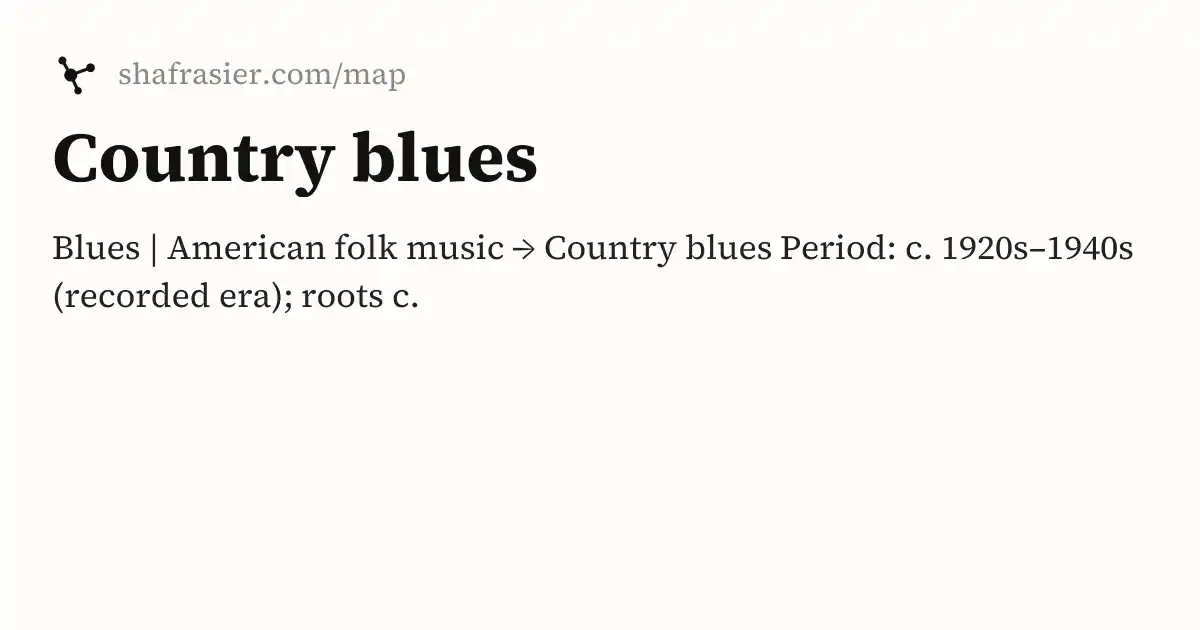
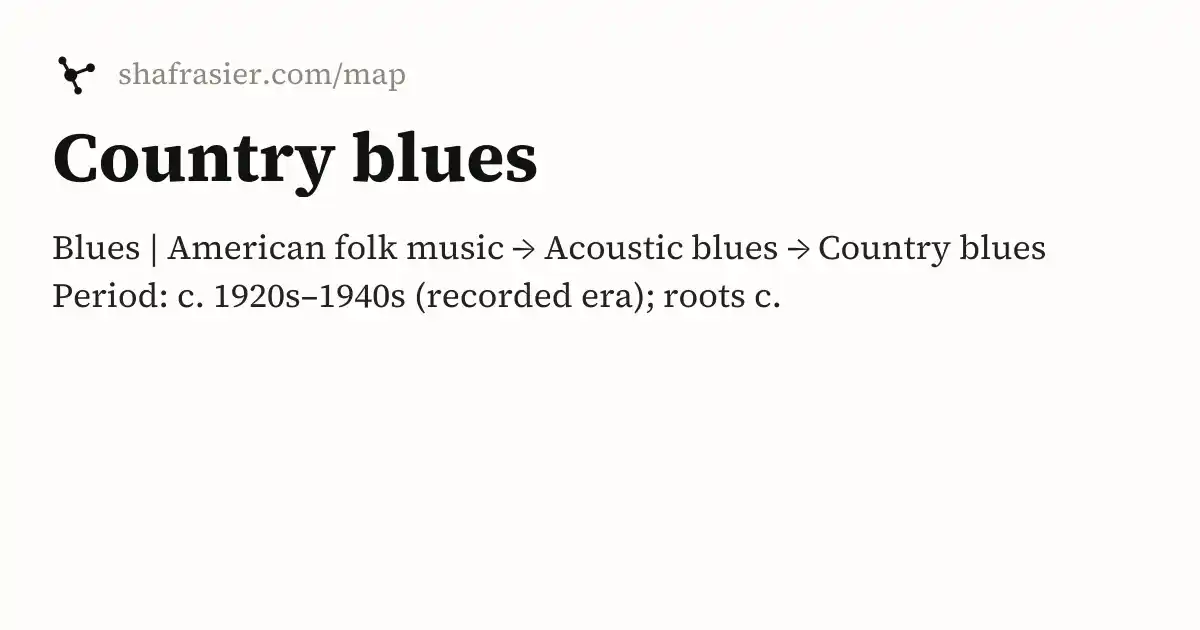
MAP: rebuild — Country blues cascade under Acoustic blues (per Sha's sketch)
The blues staff now reads Blues → Acoustic blues → Country blues → Delta blues
as one unfurling frond above the spine, matching the hand-drawn layout.

Changed region(s): [[0.0308, 0.4524, 0.6475, 0.5127], [0.4317, 0.3619, 0.9558, 0.4222]]

diff --git a/map/MUSIC/GENRES/BLUES/COUNTRY/Country-blues.html b/map/MUSIC/GENRES/BLUES/COUNTRY/Country-blues.html
@@ -1,5 +1,5 @@
 <!DOCTYPE html>
-<html lang="en" dir="ltr"><head><title>Country blues</title><meta charset="utf-8"/><style>:root{background-color:#f0efe4}:root[saved-theme=dark]{background-color:#100e0b}</style><link rel="preconnect" href="https://fonts.googleapis.com"/><link rel="preconnect" href="https://fonts.gstatic.com"/><link rel="stylesheet" href="https://fonts.googleapis.com/css2?family=Source Serif 4:wght@400;700&amp;family=Source Serif 4:ital,wght@0,400;0,600;1,400;1,600&amp;family=IBM Plex Mono:wght@400;600&amp;display=swap"/><link rel="preconnect" href="https://cdnjs.cloudflare.com" crossorigin="anonymous"/><meta name="viewport" content="width=device-width, initial-scale=1.0"/><meta name="og:site_name" content="MAP"/><meta property="og:title" content="Country blues"/><meta property="og:type" content="website"/><meta name="twitter:card" content="summary_large_image"/><meta name="twitter:title" content="Country blues"/><meta name="twitter:description" content="Blues | American folk music → Country blues Period: c. 1920s–1940s (recorded era); roots c."/><meta property="og:description" content="Blues | American folk music → Country blues Period: c. 1920s–1940s (recorded era); roots c."/><meta property="og:image:alt" content="Blues | American folk music → Country blues Period: c. 1920s–1940s (recorded era); roots c."/><meta property="twitter:domain" content="shafrasier.com/map"/><meta property="og:url" content="https://shafrasier.com/map/MUSIC/GENRES/BLUES/COUNTRY/Country-blues"/><meta property="twitter:url" content="https://shafrasier.com/map/MUSIC/GENRES/BLUES/COUNTRY/Country-blues"/><link rel="icon" href="../../../../static/icon.png"/><meta name="description" content="Blues | American folk music → Country blues Period: c. 1920s–1940s (recorded era); roots c."/><meta name="generator" content="Quartz"/><link href="../../../../index.css" rel="stylesheet" type="text/css" data-persist="true"/><style>.expand-button {
+<html lang="en" dir="ltr"><head><title>Country blues</title><meta charset="utf-8"/><style>:root{background-color:#f0efe4}:root[saved-theme=dark]{background-color:#100e0b}</style><link rel="preconnect" href="https://fonts.googleapis.com"/><link rel="preconnect" href="https://fonts.gstatic.com"/><link rel="stylesheet" href="https://fonts.googleapis.com/css2?family=Source Serif 4:wght@400;700&amp;family=Source Serif 4:ital,wght@0,400;0,600;1,400;1,600&amp;family=IBM Plex Mono:wght@400;600&amp;display=swap"/><link rel="preconnect" href="https://cdnjs.cloudflare.com" crossorigin="anonymous"/><meta name="viewport" content="width=device-width, initial-scale=1.0"/><meta name="og:site_name" content="MAP"/><meta property="og:title" content="Country blues"/><meta property="og:type" content="website"/><meta name="twitter:card" content="summary_large_image"/><meta name="twitter:title" content="Country blues"/><meta name="twitter:description" content="Blues | American folk music → Acoustic blues → Country blues Period: c. 1920s–1940s (recorded era); roots c."/><meta property="og:description" content="Blues | American folk music → Acoustic blues → Country blues Period: c. 1920s–1940s (recorded era); roots c."/><meta property="og:image:alt" content="Blues | American folk music → Acoustic blues → Country blues Period: c. 1920s–1940s (recorded era); roots c."/><meta property="twitter:domain" content="shafrasier.com/map"/><meta property="og:url" content="https://shafrasier.com/map/MUSIC/GENRES/BLUES/COUNTRY/Country-blues"/><meta property="twitter:url" content="https://shafrasier.com/map/MUSIC/GENRES/BLUES/COUNTRY/Country-blues"/><link rel="icon" href="../../../../static/icon.png"/><meta name="description" content="Blues | American folk music → Acoustic blues → Country blues Period: c. 1920s–1940s (recorded era); roots c."/><meta name="generator" content="Quartz"/><link href="../../../../index.css" rel="stylesheet" type="text/css" data-persist="true"/><style>.expand-button {
   position: absolute;
   display: flex;
   float: right;
@@ -114,7 +114,7 @@ pre:hover > .expand-button {
   width: auto;
   padding: 0 12px;
   font-size: 14px;
-}</style><script src="../../../../prescript.js" type="application/javascript" data-persist="true"></script><script type="application/javascript" data-persist="true">const fetchData = fetch("../../../../static/contentIndex.json").then(data => data.json())</script><link rel="alternate" type="application/rss+xml" title="RSS Feed" href="https://shafrasier.com/map/index.xml"/><meta property="og:image:width" content="1200"/><meta property="og:image:height" content="630"/><meta property="og:image" content="https://shafrasier.com/map/MUSIC/GENRES/BLUES/COUNTRY/Country-blues-og-image.webp"/><meta property="og:image:url" content="https://shafrasier.com/map/MUSIC/GENRES/BLUES/COUNTRY/Country-blues-og-image.webp"/><meta name="twitter:image" content="https://shafrasier.com/map/MUSIC/GENRES/BLUES/COUNTRY/Country-blues-og-image.webp"/><meta property="og:image:type" content="image/.webp"/></head><body data-slug="MUSIC/GENRES/BLUES/COUNTRY/Country-blues"><div id="quartz-root" class="page"><div id="quartz-body"><div class="left sidebar"><div class="flex-component" style="flex-direction: row; flex-wrap: nowrap; gap: 0.5rem;"><div style="flex-grow: 0; flex-shrink: 1; flex-basis: auto; order: 0; align-self: center; justify-self: center;"><button class="graph-logo global-graph-icon" aria-label="Open the connections graph" title="Connections"><svg viewBox="0 0 24 24" xmlns="http://www.w3.org/2000/svg" aria-hidden="true"><line x1="7.5" y1="13" x2="4" y2="6.5"></line><line x1="7.5" y1="13" x2="16.5" y2="9"></line><line x1="7.5" y1="13" x2="11" y2="20"></line><circle cx="7.5" cy="13" r="2.6"></circle><circle cx="4" cy="6.5" r="1.5"></circle><circle cx="16.5" cy="9" r="1.7"></circle><circle cx="11" cy="20" r="1.4"></circle></svg></button></div><div style="flex-grow: 1; flex-shrink: 1; flex-basis: auto; order: 0; align-self: center; justify-self: center;"><h2 class="page-title"><a href="../../../..">MAP</a></h2></div><div style="flex-grow: 0; flex-shrink: 1; flex-basis: auto; order: 0; align-self: center; justify-self: center;"><div class="settings"><button class="settings-gear" aria-label="Settings" aria-expanded="false" title="Settings"><svg viewBox="0 0 24 24" xmlns="http://www.w3.org/2000/svg" aria-hidden="true" fill="currentColor"><path d="M19.14 12.94c.04-.3.06-.61.06-.94 0-.32-.02-.64-.07-.94l2.03-1.58c.18-.14.23-.41.12-.61l-1.92-3.32c-.12-.22-.37-.29-.59-.22l-2.39.96c-.5-.38-1.03-.7-1.62-.94l-.36-2.54c-.04-.24-.24-.41-.48-.41h-3.84c-.24 0-.43.17-.47.41l-.36 2.54c-.[phone redacted].94l-2.39-.96c-.22-.08-.47 0-.59.22L2.74 8.87c-.12.21-.08.47.12.61l2.03 1.58c-.05.3-.09.63-.09.94s.02.64.07.94l-2.03 1.58c-.18.14-.23.41-.12.61l1.92 3.32c.[phone redacted].22l2.39-.96c.[phone redacted].94l.36 2.54c.[phone redacted].41h3.84c.24 0 .44-.17.47-.41l.36-2.54c.59-.24 1.13-.56 1.62-.94l2.39.96c.[phone redacted] .59-.22l1.92-3.32c.12-.22.07-.47-.12-.61l-2.01-1.58zM12 15.6c-[phone redacted].6s1.[phone redacted] [phone redacted].6z"></path></svg></button><div class="settings-menu" hidden><div class="settings-row"><span class="settings-label">Theme</span><button class="darkmode"><svg xmlns="http://www.w3.org/2000/svg" class="dayIcon" viewBox="0 0 24 24" fill="none" stroke="currentColor" stroke-width="2" stroke-linecap="round" stroke-linejoin="round" aria-label="Dark mode"><title>Dark mode</title><circle cx="12" cy="12" r="4"></circle><path d="M12 1v3m0 16v3M4.22 4.22l2.12 2.12m11.32 11.32l2.12 2.12M1 12h3m16 0h3M4.22 19.78l2.12-2.12m11.32-11.32l2.12-2.12"></path></svg><svg xmlns="http://www.w3.org/2000/svg" class="nightIcon" viewBox="0 0 24 24" fill="currentColor" stroke="currentColor" stroke-width="0" stroke-linecap="round" stroke-linejoin="round" aria-label="Light mode"><title>Light mode</title><path d="M21 12.79A9 [phone redacted] 21 12.79z"></path></svg></button></div><div class="settings-row"><span class="settings-label">Song links<button class="settings-info" aria-label="What does this change?" aria-expanded="false">?</button></span><div class="stream-toggle " role="group" aria-label="Where song links open"><button class="stream-opt" data-stream="apple" title="Apple Music" aria-pressed="false"><svg viewBox="0 0 40 40" xmlns="http://www.w3.org/2000/svg" aria-hidden="true"><defs><linearGradient id="am-g" x1="0" y1="0" x2="0" y2="1"><stop offset="0" stop-color="#fb5c74"></stop><stop offset="1" stop-color="#fa233b"></stop></linearGradient></defs><rect x="1" y="1" width="38" height="38" rx="9" fill="url(#am-g)"></rect><g fill="none" stroke="#fff" stroke-linecap="round"><path d="M15 13.1v13.1" stroke-width="2.5"></path><path d="M27.6 10.4v13.1" stroke-width="2.5"></path><path d="M15 13.4l12.6-2.8" stroke-width="3.4"></path></g><g fill="#fff"><ellipse cx="12.6" cy="26.6" rx="3.6" ry="2.7" transform="rotate(-[phone redacted])"></ellipse><ellipse cx="25.2" cy="23.9" rx="3.6" ry="2.7" transform="rotate(-[phone redacted])"></ellipse></g></svg></button><button class="stream-opt" data-stream="spotify" title="Spotify" aria-pressed="false"><svg viewBox="0 0 40 40" xmlns="http://www.w3.org/2000/svg" aria-hidden="true"><circle cx="20" cy="20" r="19" fill="#1ed760"></circle><g fill="none" stroke="#fff" stroke-linecap="round"><path d="M11.5 26.2c5.3-1.4 10.9-.8 15.6 1.8" stroke-width="2.4"></path><path d="M10.5 20.8c6.4-1.7 13.2-.9 18.8 2.1" stroke-width="2.9"></path><path d="M9.6 15.2c7.[phone redacted]" stroke-width="3.3"></path></g></svg></button><button class="stream-opt" data-stream="youtube" title="YouTube" aria-pressed="false"><svg viewBox="0 0 40 40" xmlns="http://www.w3.org/2000/svg" aria-hidden="true"><rect x="2" y="8" width="36" height="24" rx="6.5" fill="#ff0000"></rect><path d="M16.5 14.5v11l9.5-5.5z" fill="#fff"></path></svg></button><button class="stream-opt" data-stream="tidal" title="Tidal" aria-pressed="false"><svg viewBox="0 0 40 40" xmlns="http://www.w3.org/2000/svg" aria-hidden="true"><rect x="1" y="1" width="38" height="38" rx="9" fill="#0b0b0b"></rect><g fill="#fff"><path d="M13.[phone redacted].1l3.8 3.8 3.8-3.8z"></path><path d="M20.[phone redacted].1l3.8 3.8 3.8-3.8z"></path><path d="M28.[phone redacted].1l3.8 3.8 3.8-3.8z"></path><path d="M20.[phone redacted].7l3.8 3.8 3.8-3.8z"></path></g></svg></button></div></div><p class="settings-desc" hidden>Every song mentioned in the MAP links to a hand-picked master on Apple Music. Pick another service and song links open there instead: exact matches where the catalog has them, a search for the title otherwise.</p><div class="settings-row settings-row-stack"><span class="settings-label">Graph labels</span><input class="settings-range" type="range" min="0" max="100" step="5" aria-label="How visible the graph's labels are at rest"/></div><div class="settings-row"><span class="settings-label">Text size</span><div class="settings-sizes" role="group" aria-label="Reading text size"><button class="settings-size settings-size-s" data-size="small" aria-pressed="false">A</button><button class="settings-size settings-size-m" data-size="regular" aria-pressed="false">A</button><button class="settings-size settings-size-l" data-size="large" aria-pressed="false">A</button></div></div><div class="settings-row"><span class="settings-label">Visited trail</span><span class="settings-trail-wrap"><button class="settings-trail-reset" type="button">reset</button><button class="settings-switch settings-trail" role="switch" aria-checked="false" aria-label="Fade the notes you've already visited"><span class="settings-knob"></span></button></span></div></div></div></div><div style="flex-grow: 0; flex-shrink: 1; flex-basis: auto; order: 0; align-self: center; justify-self: center;"><div class="search"><button class="search-button"><svg role="img" xmlns="http://www.w3.org/2000/svg" viewBox="[phone redacted]"><title>Search</title><g class="search-path" fill="none"><path stroke-linecap="square" d="M18.5 18.3l-5.4-5.4"></path><circle cx="8" cy="8" r="7"></circle></g></svg><p>Search</p></button><div class="search-container"><div class="search-space"><input autocomplete="off" class="search-bar" name="search" type="text" aria-label="Explore…" placeholder="Explore…"/><div class="search-layout" data-preview="true"></div></div></div></div></div></div><div class="spacer mobile-only"></div><div class="explorer" data-behavior="collapse" data-collapsed="collapsed" data-savestate="true" data-data-fns="{&quot;order&quot;:[&quot;filter&quot;,&quot;map&quot;,&quot;sort&quot;],&quot;sortFn&quot;:&quot;(a,b)=>{let order=[\&quot;GENRES\&quot;,\&quot;SCENES\&quot;,\&quot;ERAS\&quot;,\&quot;RELEASES\&quot;,\&quot;ARTISTS\&quot;,\&quot;MOMENTS\&quot;,\&quot;TECHNIQUES\&quot;,\&quot;INDUSTRY\&quot;,\&quot;IDEAS\&quot;,\&quot;SOURCES\&quot;],an=(a.displayName||\&quot;\&quot;).toUpperCase().replace(/^X\\.?\\s*/,\&quot;\&quot;),bn=(b.displayName||\&quot;\&quot;).toUpperCase().replace(/^X\\.?\\s*/,\&quot;\&quot;),ra=order.indexOf(an),rb=order.indexOf(bn);return ra===-1&amp;&amp;(ra=999),rb===-1&amp;&amp;(rb=999),ra!==rb?ra-rb:a.isFolder!==b.isFolder?a.isFolder?-1:1:(a.displayName||\&quot;\&quot;).localeCompare(b.displayName||\&quot;\&quot;,void 0,{numeric:!0,sensitivity:\&quot;base\&quot;})}&quot;,&quot;filterFn&quot;:&quot;node=>node.slugSegment!==\&quot;tags\&quot;&quot;,&quot;mapFn&quot;:&quot;node=>node&quot;}"><button type="button" class="explorer-toggle mobile-explorer hide-until-loaded" data-mobile="true" aria-controls="explorer"><svg xmlns="http://www.w3.org/2000/svg" width="24" height="24" viewBox="0 0 24 24" stroke-width="2" stroke-linecap="round" stroke-linejoin="round" class="lucide-menu"><line x1="4" x2="20" y1="12" y2="12"></line><line x1="4" x2="20" y1="6" y2="6"></line><line x1="4" x2="20" y1="18" y2="18"></line></svg></button><button type="button" class="title-button explorer-toggle desktop-explorer" data-mobile="false" aria-expanded="true"><h2>Explorer</h2><svg xmlns="http://www.w3.org/2000/svg" width="14" height="14" viewBox="5 8 14 8" fill="none" stroke="currentColor" stroke-width="2" stroke-linecap="round" stroke-linejoin="round" class="fold"><polyline points="[phone redacted]"></polyline></svg></button><div id="explorer" class="explorer-content" aria-expanded="false" role="group"><ul class="explorer-ul overflow" id="list-0"><li class="overflow-end"></li></ul></div><template id="template-file"><li><a href="#"></a></li></template><template id="template-folder"><li><div class="folder-container"><svg xmlns="http://www.w3.org/2000/svg" width="12" height="12" viewBox="5 8 14 8" fill="none" stroke="currentColor" stroke-width="2" stroke-linecap="round" stroke-linejoin="round" class="folder-icon"><polyline points="[phone redacted]"></polyline></svg><div><button class="folder-button"><span class="folder-title"></span></button></div></div><div class="folder-outer"><ul class="content"></ul></div></li></template></div><p class="map-credit desktop-only">Created by Sha Frasier <span class="map-credit-dot">·</span> Brooklyn, NY <span class="map-credit-dot">·</span> 2026 <span class="map-credit-dot">·</span> <a href="https://shafrasier.com" data-router-ignore="true">Contact</a></p></div><div class="center"><div class="page-header"><div class="popover-hint"><h1 class="article-title">Country blues</h1></div></div><article class="popover-hint"><p><em><a href="../../../../MUSIC/GENRES/BLUES/Blues" class="internal" data-slug="MUSIC/GENRES/BLUES/Blues">Blues</a> | American folk music → <strong>Country blues</strong></em></p>
+}</style><script src="../../../../prescript.js" type="application/javascript" data-persist="true"></script><script type="application/javascript" data-persist="true">const fetchData = fetch("../../../../static/contentIndex.json").then(data => data.json())</script><link rel="alternate" type="application/rss+xml" title="RSS Feed" href="https://shafrasier.com/map/index.xml"/><meta property="og:image:width" content="1200"/><meta property="og:image:height" content="630"/><meta property="og:image" content="https://shafrasier.com/map/MUSIC/GENRES/BLUES/COUNTRY/Country-blues-og-image.webp"/><meta property="og:image:url" content="https://shafrasier.com/map/MUSIC/GENRES/BLUES/COUNTRY/Country-blues-og-image.webp"/><meta name="twitter:image" content="https://shafrasier.com/map/MUSIC/GENRES/BLUES/COUNTRY/Country-blues-og-image.webp"/><meta property="og:image:type" content="image/.webp"/></head><body data-slug="MUSIC/GENRES/BLUES/COUNTRY/Country-blues"><div id="quartz-root" class="page"><div id="quartz-body"><div class="left sidebar"><div class="flex-component" style="flex-direction: row; flex-wrap: nowrap; gap: 0.5rem;"><div style="flex-grow: 0; flex-shrink: 1; flex-basis: auto; order: 0; align-self: center; justify-self: center;"><button class="graph-logo global-graph-icon" aria-label="Open the connections graph" title="Connections"><svg viewBox="0 0 24 24" xmlns="http://www.w3.org/2000/svg" aria-hidden="true"><line x1="7.5" y1="13" x2="4" y2="6.5"></line><line x1="7.5" y1="13" x2="16.5" y2="9"></line><line x1="7.5" y1="13" x2="11" y2="20"></line><circle cx="7.5" cy="13" r="2.6"></circle><circle cx="4" cy="6.5" r="1.5"></circle><circle cx="16.5" cy="9" r="1.7"></circle><circle cx="11" cy="20" r="1.4"></circle></svg></button></div><div style="flex-grow: 1; flex-shrink: 1; flex-basis: auto; order: 0; align-self: center; justify-self: center;"><h2 class="page-title"><a href="../../../..">MAP</a></h2></div><div style="flex-grow: 0; flex-shrink: 1; flex-basis: auto; order: 0; align-self: center; justify-self: center;"><div class="settings"><button class="settings-gear" aria-label="Settings" aria-expanded="false" title="Settings"><svg viewBox="0 0 24 24" xmlns="http://www.w3.org/2000/svg" aria-hidden="true" fill="currentColor"><path d="M19.14 12.94c.04-.3.06-.61.06-.94 0-.32-.02-.64-.07-.94l2.03-1.58c.18-.14.23-.41.12-.61l-1.92-3.32c-.12-.22-.37-.29-.59-.22l-2.39.96c-.5-.38-1.03-.7-1.62-.94l-.36-2.54c-.04-.24-.24-.41-.48-.41h-3.84c-.24 0-.43.17-.47.41l-.36 2.54c-.[phone redacted].94l-2.39-.96c-.22-.08-.47 0-.59.22L2.74 8.87c-.12.21-.08.47.12.61l2.03 1.58c-.05.3-.09.63-.09.94s.02.64.07.94l-2.03 1.58c-.18.14-.23.41-.12.61l1.92 3.32c.[phone redacted].22l2.39-.96c.[phone redacted].94l.36 2.54c.[phone redacted].41h3.84c.24 0 .44-.17.47-.41l.36-2.54c.59-.24 1.13-.56 1.62-.94l2.39.96c.[phone redacted] .59-.22l1.92-3.32c.12-.22.07-.47-.12-.61l-2.01-1.58zM12 15.6c-[phone redacted].6s1.[phone redacted] [phone redacted].6z"></path></svg></button><div class="settings-menu" hidden><div class="settings-row"><span class="settings-label">Theme</span><button class="darkmode"><svg xmlns="http://www.w3.org/2000/svg" class="dayIcon" viewBox="0 0 24 24" fill="none" stroke="currentColor" stroke-width="2" stroke-linecap="round" stroke-linejoin="round" aria-label="Dark mode"><title>Dark mode</title><circle cx="12" cy="12" r="4"></circle><path d="M12 1v3m0 16v3M4.22 4.22l2.12 2.12m11.32 11.32l2.12 2.12M1 12h3m16 0h3M4.22 19.78l2.12-2.12m11.32-11.32l2.12-2.12"></path></svg><svg xmlns="http://www.w3.org/2000/svg" class="nightIcon" viewBox="0 0 24 24" fill="currentColor" stroke="currentColor" stroke-width="0" stroke-linecap="round" stroke-linejoin="round" aria-label="Light mode"><title>Light mode</title><path d="M21 12.79A9 [phone redacted] 21 12.79z"></path></svg></button></div><div class="settings-row"><span class="settings-label">Song links<button class="settings-info" aria-label="What does this change?" aria-expanded="false">?</button></span><div class="stream-toggle " role="group" aria-label="Where song links open"><button class="stream-opt" data-stream="apple" title="Apple Music" aria-pressed="false"><svg viewBox="0 0 40 40" xmlns="http://www.w3.org/2000/svg" aria-hidden="true"><defs><linearGradient id="am-g" x1="0" y1="0" x2="0" y2="1"><stop offset="0" stop-color="#fb5c74"></stop><stop offset="1" stop-color="#fa233b"></stop></linearGradient></defs><rect x="1" y="1" width="38" height="38" rx="9" fill="url(#am-g)"></rect><g fill="none" stroke="#fff" stroke-linecap="round"><path d="M15 13.1v13.1" stroke-width="2.5"></path><path d="M27.6 10.4v13.1" stroke-width="2.5"></path><path d="M15 13.4l12.6-2.8" stroke-width="3.4"></path></g><g fill="#fff"><ellipse cx="12.6" cy="26.6" rx="3.6" ry="2.7" transform="rotate(-[phone redacted])"></ellipse><ellipse cx="25.2" cy="23.9" rx="3.6" ry="2.7" transform="rotate(-[phone redacted])"></ellipse></g></svg></button><button class="stream-opt" data-stream="spotify" title="Spotify" aria-pressed="false"><svg viewBox="0 0 40 40" xmlns="http://www.w3.org/2000/svg" aria-hidden="true"><circle cx="20" cy="20" r="19" fill="#1ed760"></circle><g fill="none" stroke="#fff" stroke-linecap="round"><path d="M11.5 26.2c5.3-1.4 10.9-.8 15.6 1.8" stroke-width="2.4"></path><path d="M10.5 20.8c6.4-1.7 13.2-.9 18.8 2.1" stroke-width="2.9"></path><path d="M9.6 15.2c7.[phone redacted]" stroke-width="3.3"></path></g></svg></button><button class="stream-opt" data-stream="youtube" title="YouTube" aria-pressed="false"><svg viewBox="0 0 40 40" xmlns="http://www.w3.org/2000/svg" aria-hidden="true"><rect x="2" y="8" width="36" height="24" rx="6.5" fill="#ff0000"></rect><path d="M16.5 14.5v11l9.5-5.5z" fill="#fff"></path></svg></button><button class="stream-opt" data-stream="tidal" title="Tidal" aria-pressed="false"><svg viewBox="0 0 40 40" xmlns="http://www.w3.org/2000/svg" aria-hidden="true"><rect x="1" y="1" width="38" height="38" rx="9" fill="#0b0b0b"></rect><g fill="#fff"><path d="M13.[phone redacted].1l3.8 3.8 3.8-3.8z"></path><path d="M20.[phone redacted].1l3.8 3.8 3.8-3.8z"></path><path d="M28.[phone redacted].1l3.8 3.8 3.8-3.8z"></path><path d="M20.[phone redacted].7l3.8 3.8 3.8-3.8z"></path></g></svg></button></div></div><p class="settings-desc" hidden>Every song mentioned in the MAP links to a hand-picked master on Apple Music. Pick another service and song links open there instead: exact matches where the catalog has them, a search for the title otherwise.</p><div class="settings-row settings-row-stack"><span class="settings-label">Graph labels</span><input class="settings-range" type="range" min="0" max="100" step="5" aria-label="How visible the graph's labels are at rest"/></div><div class="settings-row"><span class="settings-label">Text size</span><div class="settings-sizes" role="group" aria-label="Reading text size"><button class="settings-size settings-size-s" data-size="small" aria-pressed="false">A</button><button class="settings-size settings-size-m" data-size="regular" aria-pressed="false">A</button><button class="settings-size settings-size-l" data-size="large" aria-pressed="false">A</button></div></div><div class="settings-row"><span class="settings-label">Visited trail</span><span class="settings-trail-wrap"><button class="settings-trail-reset" type="button">reset</button><button class="settings-switch settings-trail" role="switch" aria-checked="false" aria-label="Fade the notes you've already visited"><span class="settings-knob"></span></button></span></div></div></div></div><div style="flex-grow: 0; flex-shrink: 1; flex-basis: auto; order: 0; align-self: center; justify-self: center;"><div class="search"><button class="search-button"><svg role="img" xmlns="http://www.w3.org/2000/svg" viewBox="[phone redacted]"><title>Search</title><g class="search-path" fill="none"><path stroke-linecap="square" d="M18.5 18.3l-5.4-5.4"></path><circle cx="8" cy="8" r="7"></circle></g></svg><p>Search</p></button><div class="search-container"><div class="search-space"><input autocomplete="off" class="search-bar" name="search" type="text" aria-label="Explore…" placeholder="Explore…"/><div class="search-layout" data-preview="true"></div></div></div></div></div></div><div class="spacer mobile-only"></div><div class="explorer" data-behavior="collapse" data-collapsed="collapsed" data-savestate="true" data-data-fns="{&quot;order&quot;:[&quot;filter&quot;,&quot;map&quot;,&quot;sort&quot;],&quot;sortFn&quot;:&quot;(a,b)=>{let order=[\&quot;GENRES\&quot;,\&quot;SCENES\&quot;,\&quot;ERAS\&quot;,\&quot;RELEASES\&quot;,\&quot;ARTISTS\&quot;,\&quot;MOMENTS\&quot;,\&quot;TECHNIQUES\&quot;,\&quot;INDUSTRY\&quot;,\&quot;IDEAS\&quot;,\&quot;SOURCES\&quot;],an=(a.displayName||\&quot;\&quot;).toUpperCase().replace(/^X\\.?\\s*/,\&quot;\&quot;),bn=(b.displayName||\&quot;\&quot;).toUpperCase().replace(/^X\\.?\\s*/,\&quot;\&quot;),ra=order.indexOf(an),rb=order.indexOf(bn);return ra===-1&amp;&amp;(ra=999),rb===-1&amp;&amp;(rb=999),ra!==rb?ra-rb:a.isFolder!==b.isFolder?a.isFolder?-1:1:(a.displayName||\&quot;\&quot;).localeCompare(b.displayName||\&quot;\&quot;,void 0,{numeric:!0,sensitivity:\&quot;base\&quot;})}&quot;,&quot;filterFn&quot;:&quot;node=>node.slugSegment!==\&quot;tags\&quot;&quot;,&quot;mapFn&quot;:&quot;node=>node&quot;}"><button type="button" class="explorer-toggle mobile-explorer hide-until-loaded" data-mobile="true" aria-controls="explorer"><svg xmlns="http://www.w3.org/2000/svg" width="24" height="24" viewBox="0 0 24 24" stroke-width="2" stroke-linecap="round" stroke-linejoin="round" class="lucide-menu"><line x1="4" x2="20" y1="12" y2="12"></line><line x1="4" x2="20" y1="6" y2="6"></line><line x1="4" x2="20" y1="18" y2="18"></line></svg></button><button type="button" class="title-button explorer-toggle desktop-explorer" data-mobile="false" aria-expanded="true"><h2>Explorer</h2><svg xmlns="http://www.w3.org/2000/svg" width="14" height="14" viewBox="5 8 14 8" fill="none" stroke="currentColor" stroke-width="2" stroke-linecap="round" stroke-linejoin="round" class="fold"><polyline points="[phone redacted]"></polyline></svg></button><div id="explorer" class="explorer-content" aria-expanded="false" role="group"><ul class="explorer-ul overflow" id="list-0"><li class="overflow-end"></li></ul></div><template id="template-file"><li><a href="#"></a></li></template><template id="template-folder"><li><div class="folder-container"><svg xmlns="http://www.w3.org/2000/svg" width="12" height="12" viewBox="5 8 14 8" fill="none" stroke="currentColor" stroke-width="2" stroke-linecap="round" stroke-linejoin="round" class="folder-icon"><polyline points="[phone redacted]"></polyline></svg><div><button class="folder-button"><span class="folder-title"></span></button></div></div><div class="folder-outer"><ul class="content"></ul></div></li></template></div><p class="map-credit desktop-only">Created by Sha Frasier <span class="map-credit-dot">·</span> Brooklyn, NY <span class="map-credit-dot">·</span> 2026 <span class="map-credit-dot">·</span> <a href="https://shafrasier.com" data-router-ignore="true">Contact</a></p></div><div class="center"><div class="page-header"><div class="popover-hint"><h1 class="article-title">Country blues</h1></div></div><article class="popover-hint"><p><em><a href="../../../../MUSIC/GENRES/BLUES/Blues" class="internal" data-slug="MUSIC/GENRES/BLUES/Blues">Blues</a> | American folk music → <strong><a href="../../../../MUSIC/GENRES/BLUES/ACOUSTIC/Acoustic-blues" class="internal alias" data-slug="MUSIC/GENRES/BLUES/ACOUSTIC/Acoustic-blues">Acoustic blues</a></strong> → <strong>Country blues</strong></em></p>
 <p><strong>Period:</strong> c. 1920s–1940s (recorded era); roots c. 1900<br/>
 <strong>Location:</strong> Rural American South<br/>
 <strong>Key influences:</strong> Field hollers, work songs, spirituals, songster ballads, ragtime</p>

diff --git a/map/MUSIC/GENRES/BLUES/ACOUSTIC/Acoustic-blues.html b/map/MUSIC/GENRES/BLUES/ACOUSTIC/Acoustic-blues.html
@@ -132,6 +132,6 @@ pre:hover > .expand-button {
 <li><strong><a href="../../../../MUSIC/GENRES/BLUES/Vaudeville-blues" class="internal alias" data-slug="MUSIC/GENRES/BLUES/Vaudeville-blues">Vaudeville blues</a></strong> — the other early blues: staged, orchestrated, and female-led, where acoustic blues was itinerant and self-accompanied</li>
 <li><strong><a href="../../../../MUSIC/GENRES/BLUES/COUNTRY/Country-blues" class="internal alias" data-slug="MUSIC/GENRES/BLUES/COUNTRY/Country-blues">Country blues</a></strong> — the rural recorded era of the acoustic tradition; the two terms overlap almost completely between 1920 and the war</li>
 <li><strong><a href="../../../../MUSIC/GENRES/BLUES/ELECTRIC/Electric-blues" class="internal alias" data-slug="MUSIC/GENRES/BLUES/ELECTRIC/Electric-blues">Electric blues</a></strong> — what displaced the acoustic mainstream after 1945, and the contrast that gave “acoustic” its name</li>
-</ul></article><hr/><div class="page-footer"><nav class="breadcrumb-container" aria-label="breadcrumbs"><div class="breadcrumb-element"><a href="../../../../">Home</a><p> ❯ </p></div><div class="breadcrumb-element"><a href="../../../../MUSIC/">MUSIC</a><p> ❯ </p></div><div class="breadcrumb-element"><a href="../../../../MUSIC/GENRES/">GENRES</a><p> ❯ </p></div><div class="breadcrumb-element"><a href="../../../../MUSIC/GENRES/BLUES/">BLUES</a><p> ❯ </p></div><div class="breadcrumb-element"><a href="../../../../MUSIC/GENRES/BLUES/ACOUSTIC/">ACOUSTIC</a><p> ❯ </p></div><div class="breadcrumb-element"><a href>Acoustic blues</a></div></nav><div class="safari-toolbar-tint" aria-hidden="true"></div><div class="feedback "><button class="feedback-fab" aria-label="Report an issue or suggest a change" data-feedback="open"><svg viewBox="0 0 24 24" xmlns="http://www.w3.org/2000/svg" aria-hidden="true" fill="none" stroke="currentColor" stroke-width="1.7" stroke-linecap="round" stroke-linejoin="round"><path d="M21 11.5a8.[phone redacted]-.[phone redacted].[phone redacted]-.9L3 21l1.9-5.7a8.[phone redacted]-.[phone redacted].[phone redacted]-.9h.5a8.[phone redacted] 8v.5z"></path></svg><span class="feedback-fab-label">Feedback</span></button><div class="feedback-panel" role="dialog" aria-modal="true" aria-label="Send feedback" hidden><div class="feedback-card"><button class="feedback-close" aria-label="Close" data-feedback="close"><svg viewBox="0 0 24 24" xmlns="http://www.w3.org/2000/svg" aria-hidden="true" fill="none" stroke="currentColor" stroke-width="2" stroke-linecap="round" stroke-linejoin="round"><line x1="6" y1="6" x2="18" y2="18"></line><line x1="18" y1="6" x2="6" y2="18"></line></svg></button><h3 class="feedback-title">Spot something?</h3><p class="feedback-sub">A glitch, a factual error, a typo, a suggestion: tell me and I'll handle it.</p><form class="feedback-form"><textarea class="feedback-message" name="message" rows="4" required placeholder="What did you notice?"></textarea><input class="feedback-contact" name="contact" type="text" placeholder="Your email (optional, if you'd like a reply)"/><div class="feedback-actions"><span class="feedback-status" aria-live="polite"></span><button class="feedback-send" type="submit">Send</button></div></form></div></div></div></div></div><div class="right sidebar"><div class="graph"><h3>Connections</h3><div class="graph-outer"><div class="graph-container" data-cfg="{&quot;drag&quot;:true,&quot;zoom&quot;:true,&quot;depth&quot;:1,&quot;scale&quot;:1.1,&quot;repelForce&quot;:0.9,&quot;centerForce&quot;:0.3,&quot;linkDistance&quot;:42,&quot;fontSize&quot;:0.42,&quot;opacityScale&quot;:1,&quot;showTags&quot;:true,&quot;removeTags&quot;:[],&quot;focusOnHover&quot;:false,&quot;enableRadial&quot;:false}"></div><button class="global-graph-icon" aria-label="Open the connections graph"><svg viewBox="0 0 24 24" xmlns="http://www.w3.org/2000/svg" aria-hidden="true"><line x1="7.5" y1="13" x2="4" y2="6.5"></line><line x1="7.5" y1="13" x2="16.5" y2="9"></line><line x1="7.5" y1="13" x2="11" y2="20"></line><circle cx="7.5" cy="13" r="2.6"></circle><circle cx="4" cy="6.5" r="1.5"></circle><circle cx="16.5" cy="9" r="1.7"></circle><circle cx="11" cy="20" r="1.4"></circle></svg></button></div><div class="global-graph-outer"><button class="global-graph-close" aria-label="Close the graph"><svg viewBox="0 0 24 24" xmlns="http://www.w3.org/2000/svg" aria-hidden="true"><line x1="6" y1="6" x2="18" y2="18"></line><line x1="18" y1="6" x2="6" y2="18"></line></svg></button><div class="global-graph-container" data-cfg="{&quot;drag&quot;:true,&quot;zoom&quot;:true,&quot;depth&quot;:-1,&quot;scale&quot;:0.9,&quot;repelForce&quot;:1.2,&quot;centerForce&quot;:0.2,&quot;linkDistance&quot;:48,&quot;fontSize&quot;:0.36,&quot;opacityScale&quot;:1,&quot;showTags&quot;:true,&quot;removeTags&quot;:[],&quot;focusOnHover&quot;:true,&quot;enableRadial&quot;:true}"></div></div></div><div class="backlinks"><h3>Backlinks</h3><ul id="list-2" class="overflow"><li><a href="../../../../MUSIC/GENRES/BLUES/ACOUSTIC/Acoustic-Chicago-blues" class="internal">Acoustic Chicago blues</a></li><li><a href="../../../../MUSIC/GENRES/BLUES/ACOUSTIC/Acoustic-Texas-blues" class="internal">Acoustic Texas blues</a></li><li><a href="../../../../MUSIC/GENRES/BLUES/ACOUSTIC/Jug-band" class="internal">Jug band</a></li><li><a href="../../../../MUSIC/GENRES/BLUES/Blues" class="internal">Blues</a></li><li><a href="../../../../MUSIC/GENRES/BLUES/COUNTRY/Piedmont-blues" class="internal">Piedmont blues</a></li><li><a href="../../../../MUSIC/GENRES/BLUES/ELECTRIC/Electric-blues" class="internal">Electric blues</a></li><li><a href="../../../../MUSIC/GENRES/BLUES/Vaudeville-blues" class="internal">Vaudeville blues</a></li><li class="overflow-end"></li></ul></div></div><footer class></footer></div></div></body><script type="application/javascript" data-persist="true">function n(){let t=this.parentElement;t.classList.toggle("is-collapsed");let e=t.getElementsByClassName("callout-content")[0];if(!e)return;let l=t.classList.contains("is-collapsed");e.style.gridTemplateRows=l?"0fr":"1fr"}function c(){let t=document.getElementsByClassName("callout is-collapsible");for(let e of t){let l=e.getElementsByClassName("callout-title")[0],s=e.getElementsByClassName("callout-content")[0];if(!l||!s)continue;l.addEventListener("click",n),window.addCleanup(()=>l.removeEventListener("click",n));let o=e.classList.contains("is-collapsed");s.style.gridTemplateRows=o?"0fr":"1fr"}}document.addEventListener("nav",c);
+</ul></article><hr/><div class="page-footer"><nav class="breadcrumb-container" aria-label="breadcrumbs"><div class="breadcrumb-element"><a href="../../../../">Home</a><p> ❯ </p></div><div class="breadcrumb-element"><a href="../../../../MUSIC/">MUSIC</a><p> ❯ </p></div><div class="breadcrumb-element"><a href="../../../../MUSIC/GENRES/">GENRES</a><p> ❯ </p></div><div class="breadcrumb-element"><a href="../../../../MUSIC/GENRES/BLUES/">BLUES</a><p> ❯ </p></div><div class="breadcrumb-element"><a href="../../../../MUSIC/GENRES/BLUES/ACOUSTIC/">ACOUSTIC</a><p> ❯ </p></div><div class="breadcrumb-element"><a href>Acoustic blues</a></div></nav><div class="safari-toolbar-tint" aria-hidden="true"></div><div class="feedback "><button class="feedback-fab" aria-label="Report an issue or suggest a change" data-feedback="open"><svg viewBox="0 0 24 24" xmlns="http://www.w3.org/2000/svg" aria-hidden="true" fill="none" stroke="currentColor" stroke-width="1.7" stroke-linecap="round" stroke-linejoin="round"><path d="M21 11.5a8.[phone redacted]-.[phone redacted].[phone redacted]-.9L3 21l1.9-5.7a8.[phone redacted]-.[phone redacted].[phone redacted]-.9h.5a8.[phone redacted] 8v.5z"></path></svg><span class="feedback-fab-label">Feedback</span></button><div class="feedback-panel" role="dialog" aria-modal="true" aria-label="Send feedback" hidden><div class="feedback-card"><button class="feedback-close" aria-label="Close" data-feedback="close"><svg viewBox="0 0 24 24" xmlns="http://www.w3.org/2000/svg" aria-hidden="true" fill="none" stroke="currentColor" stroke-width="2" stroke-linecap="round" stroke-linejoin="round"><line x1="6" y1="6" x2="18" y2="18"></line><line x1="18" y1="6" x2="6" y2="18"></line></svg></button><h3 class="feedback-title">Spot something?</h3><p class="feedback-sub">A glitch, a factual error, a typo, a suggestion: tell me and I'll handle it.</p><form class="feedback-form"><textarea class="feedback-message" name="message" rows="4" required placeholder="What did you notice?"></textarea><input class="feedback-contact" name="contact" type="text" placeholder="Your email (optional, if you'd like a reply)"/><div class="feedback-actions"><span class="feedback-status" aria-live="polite"></span><button class="feedback-send" type="submit">Send</button></div></form></div></div></div></div></div><div class="right sidebar"><div class="graph"><h3>Connections</h3><div class="graph-outer"><div class="graph-container" data-cfg="{&quot;drag&quot;:true,&quot;zoom&quot;:true,&quot;depth&quot;:1,&quot;scale&quot;:1.1,&quot;repelForce&quot;:0.9,&quot;centerForce&quot;:0.3,&quot;linkDistance&quot;:42,&quot;fontSize&quot;:0.42,&quot;opacityScale&quot;:1,&quot;showTags&quot;:true,&quot;removeTags&quot;:[],&quot;focusOnHover&quot;:false,&quot;enableRadial&quot;:false}"></div><button class="global-graph-icon" aria-label="Open the connections graph"><svg viewBox="0 0 24 24" xmlns="http://www.w3.org/2000/svg" aria-hidden="true"><line x1="7.5" y1="13" x2="4" y2="6.5"></line><line x1="7.5" y1="13" x2="16.5" y2="9"></line><line x1="7.5" y1="13" x2="11" y2="20"></line><circle cx="7.5" cy="13" r="2.6"></circle><circle cx="4" cy="6.5" r="1.5"></circle><circle cx="16.5" cy="9" r="1.7"></circle><circle cx="11" cy="20" r="1.4"></circle></svg></button></div><div class="global-graph-outer"><button class="global-graph-close" aria-label="Close the graph"><svg viewBox="0 0 24 24" xmlns="http://www.w3.org/2000/svg" aria-hidden="true"><line x1="6" y1="6" x2="18" y2="18"></line><line x1="18" y1="6" x2="6" y2="18"></line></svg></button><div class="global-graph-container" data-cfg="{&quot;drag&quot;:true,&quot;zoom&quot;:true,&quot;depth&quot;:-1,&quot;scale&quot;:0.9,&quot;repelForce&quot;:1.2,&quot;centerForce&quot;:0.2,&quot;linkDistance&quot;:48,&quot;fontSize&quot;:0.36,&quot;opacityScale&quot;:1,&quot;showTags&quot;:true,&quot;removeTags&quot;:[],&quot;focusOnHover&quot;:true,&quot;enableRadial&quot;:true}"></div></div></div><div class="backlinks"><h3>Backlinks</h3><ul id="list-2" class="overflow"><li><a href="../../../../MUSIC/GENRES/BLUES/ACOUSTIC/Acoustic-Chicago-blues" class="internal">Acoustic Chicago blues</a></li><li><a href="../../../../MUSIC/GENRES/BLUES/ACOUSTIC/Acoustic-Texas-blues" class="internal">Acoustic Texas blues</a></li><li><a href="../../../../MUSIC/GENRES/BLUES/ACOUSTIC/Jug-band" class="internal">Jug band</a></li><li><a href="../../../../MUSIC/GENRES/BLUES/Blues" class="internal">Blues</a></li><li><a href="../../../../MUSIC/GENRES/BLUES/COUNTRY/Country-blues" class="internal">Country blues</a></li><li><a href="../../../../MUSIC/GENRES/BLUES/COUNTRY/Piedmont-blues" class="internal">Piedmont blues</a></li><li><a href="../../../../MUSIC/GENRES/BLUES/ELECTRIC/Electric-blues" class="internal">Electric blues</a></li><li><a href="../../../../MUSIC/GENRES/BLUES/Vaudeville-blues" class="internal">Vaudeville blues</a></li><li class="overflow-end"></li></ul></div></div><footer class></footer></div></div></body><script type="application/javascript" data-persist="true">function n(){let t=this.parentElement;t.classList.toggle("is-collapsed");let e=t.getElementsByClassName("callout-content")[0];if(!e)return;let l=t.classList.contains("is-collapsed");e.style.gridTemplateRows=l?"0fr":"1fr"}function c(){let t=document.getElementsByClassName("callout is-collapsible");for(let e of t){let l=e.getElementsByClassName("callout-title")[0],s=e.getElementsByClassName("callout-content")[0];if(!l||!s)continue;l.addEventListener("click",n),window.addCleanup(()=>l.removeEventListener("click",n));let o=e.classList.contains("is-collapsed");s.style.gridTemplateRows=o?"0fr":"1fr"}}document.addEventListener("nav",c);
 </script><script type="module" data-persist="true">function E(a,e){if(!a)return;function t(o){o.target===this&&(o.preventDefault(),o.stopPropagation(),e())}function n(o){o.key.startsWith("Esc")&&(o.preventDefault(),e())}a?.addEventListener("click",t),window.addCleanup(()=>a?.removeEventListener("click",t)),document.addEventListener("keydown",n),window.addCleanup(()=>document.removeEventListener("keydown",n))}function f(a){for(;a.firstChild;)a.removeChild(a.firstChild)}var m=class{constructor(e,t){this.container=e;this.content=t;this.setupEventListeners(),this.setupNavigationControls(),this.resetTransform()}isDragging=!1;startPan={x:0,y:0};currentPan={x:0,y:0};scale=1;MIN_SCALE=.5;MAX_SCALE=3;cleanups=[];setupEventListeners(){let e=this.onMouseDown.bind(this),t=this.onMouseMove.bind(this),n=this.onMouseUp.bind(this),o=this.onTouchStart.bind(this),r=this.onTouchMove.bind(this),i=this.onTouchEnd.bind(this),s=this.resetTransform.bind(this);this.container.addEventListener("mousedown",e),document.addEventListener("mousemove",t),document.addEventListener("mouseup",n),this.container.addEventListener("touchstart",o,{passive:!1}),document.addEventListener("touchmove",r,{passive:!1}),document.addEventListener("touchend",i),window.addEventListener("resize",s),this.cleanups.push(()=>this.container.removeEventListener("mousedown",e),()=>document.removeEventListener("mousemove",t),()=>document.removeEventListener("mouseup",n),()=>this.container.removeEventListener("touchstart",o),()=>document.removeEventListener("touchmove",r),()=>document.removeEventListener("touchend",i),()=>window.removeEventListener("resize",s))}cleanup(){for(let e of this.cleanups)e()}setupNavigationControls(){let e=document.createElement("div");e.className="mermaid-controls";let t=this.createButton("+",()=>this.zoom(.1)),n=this.createButton("-",()=>this.zoom(-.1)),o=this.createButton("Reset",()=>this.resetTransform());e.appendChild(n),e.appendChild(o),e.appendChild(t),this.container.appendChild(e)}createButton(e,t){let n=document.createElement("button");return n.textContent=e,n.className="mermaid-control-button",n.addEventListener("click",t),window.addCleanup(()=>n.removeEventListener("click",t)),n}onMouseDown(e){e.button===0&&(this.isDragging=!0,this.startPan={x:e.clientX-this.currentPan.x,y:e.clientY-this.currentPan.y},this.container.style.cursor="grabbing")}onMouseMove(e){this.isDragging&&(e.preventDefault(),this.currentPan={x:e.clientX-this.startPan.x,y:e.clientY-this.startPan.y},this.updateTransform())}onMouseUp(){this.isDragging=!1,this.container.style.cursor="grab"}onTouchStart(e){if(e.touches.length!==1)return;this.isDragging=!0;let t=e.touches[0];this.startPan={x:t.clientX-this.currentPan.x,y:t.clientY-this.currentPan.y}}onTouchMove(e){if(!this.isDragging||e.touches.length!==1)return;e.preventDefault();let t=e.touches[0];this.currentPan={x:t.clientX-this.startPan.x,y:t.clientY-this.startPan.y},this.updateTransform()}onTouchEnd(){this.isDragging=!1}zoom(e){let t=Math.min(Math.max(this.scale+e,this.MIN_SCALE),this.MAX_SCALE),n=this.content.getBoundingClientRect(),o=n.width/2,r=n.height/2,i=t-this.scale;this.currentPan.x-=o*i,this.currentPan.y-=r*i,this.scale=t,this.updateTransform()}updateTransform(){this.content.style.transform=`translate(${this.currentPan.x}px, ${this.currentPan.y}px) scale(${this.scale})`}resetTransform(){let t=this.content.querySelector("svg").getBoundingClientRect(),n=t.width/this.scale,o=t.height/this.scale;this.scale=1,this.currentPan={x:(this.container.clientWidth-n)/2,y:(this.container.clientHeight-o)/2},this.updateTransform()}},T=["--secondary","--tertiary","--gray","--light","--lightgray","--highlight","--dark","--darkgray","--codeFont"],y;document.addEventListener("nav",async()=>{let e=document.querySelector(".center").querySelectorAll("code.mermaid");if(e.length===0)return;y||=await import("https://cdnjs.cloudflare.com/ajax/libs/mermaid/11.4.0/mermaid.esm.min.mjs");let t=y.default,n=new WeakMap;for(let r of e)n.set(r,r.innerText);async function o(){for(let s of e){s.removeAttribute("data-processed");let c=n.get(s);c&&(s.innerHTML=c)}let r=T.reduce((s,c)=>(s[c]=window.getComputedStyle(document.documentElement).getPropertyValue(c),s),{}),i=document.documentElement.getAttribute("saved-theme")==="dark";t.initialize({startOnLoad:!1,securityLevel:"loose",theme:i?"dark":"base",themeVariables:{fontFamily:r["--codeFont"],primaryColor:r["--light"],primaryTextColor:r["--darkgray"],primaryBorderColor:r["--tertiary"],lineColor:r["--darkgray"],secondaryColor:r["--secondary"],tertiaryColor:r["--tertiary"],clusterBkg:r["--light"],edgeLabelBackground:r["--highlight"]}}),await t.run({nodes:e})}await o(),document.addEventListener("themechange",o),window.addCleanup(()=>document.removeEventListener("themechange",o));for(let r=0;r<e.length;r++){let v=function(){let g=l.querySelector("#mermaid-space"),h=l.querySelector(".mermaid-content");if(!h)return;f(h);let w=i.querySelector("svg").cloneNode(!0);h.appendChild(w),l.classList.add("active"),g.style.cursor="grab",u=new m(g,h)},M=function(){l.classList.remove("active"),u?.cleanup(),u=null},i=e[r],s=i.parentElement,c=s.querySelector(".clipboard-button"),d=s.querySelector(".expand-button"),p=window.getComputedStyle(c),L=c.offsetWidth+parseFloat(p.marginLeft||"0")+parseFloat(p.marginRight||"0");d.style.right=`calc(${L}px + 0.3rem)`,s.prepend(d);let l=s.querySelector("#mermaid-container");if(!l)return;let u=null;d.addEventListener("click",v),E(l,M),window.addCleanup(()=>{u?.cleanup(),d.removeEventListener("click",v)})}});
 </script><script src="../../../../postscript.js" type="module" data-persist="true"></script></html>